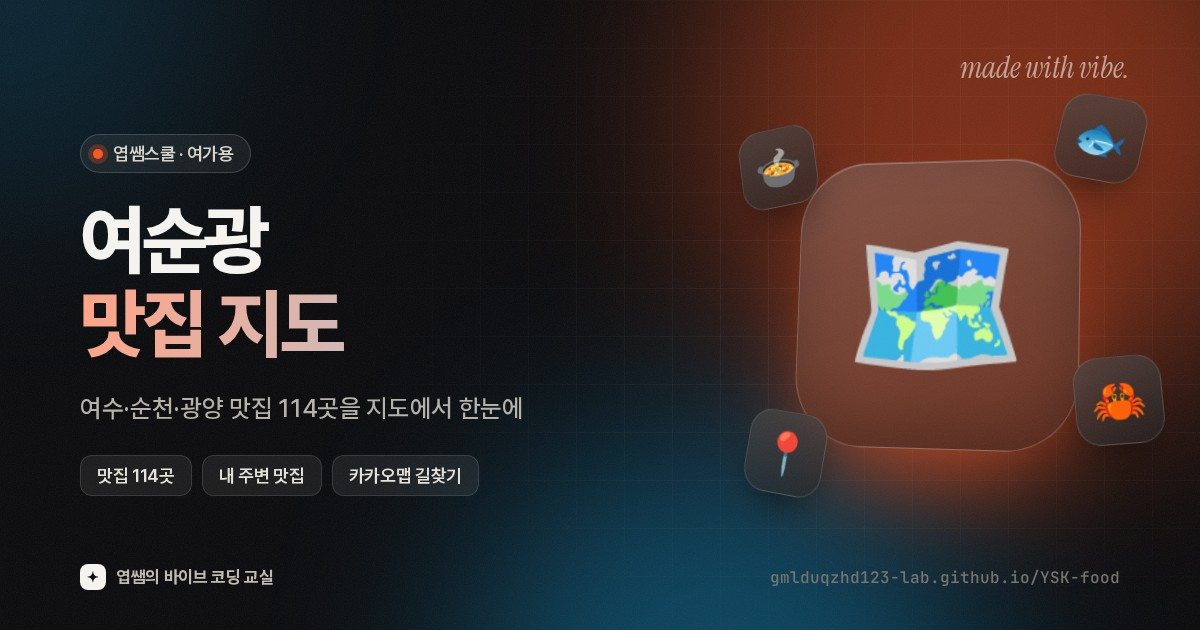
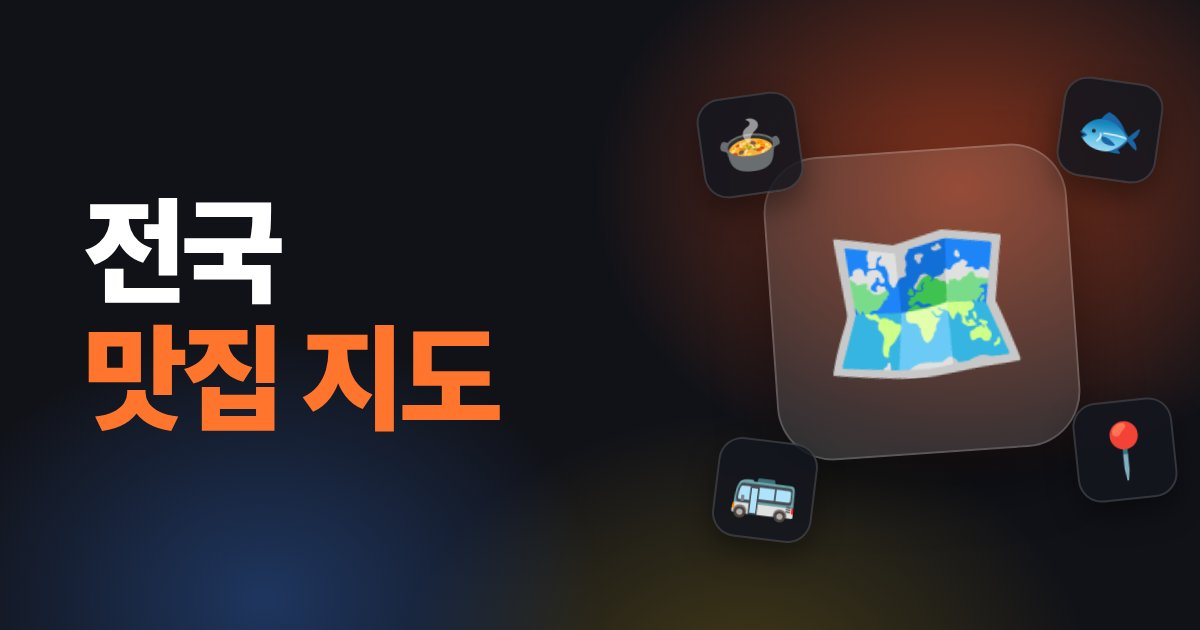
공유 미리보기 그림을 '전국 맛집 지도'로 교체 (#27)
옛 이름(여순광 맛집 지도)이 적힌 og-image.jpg를 새 이름 그림으로 바꾸고, 카톡 등이 새 그림을 받도록 주소에 ?v=20261019를 붙임.

Claude-Session: https://claude.ai/code/session_01NaW5r8WBzNy5B2e9iMgdZz

diff --git a/index.html b/index.html
@@ -7,14 +7,14 @@
     <meta property="og:site_name" content="엽쌤스쿨">
     <meta property="og:url" content="https://gmlduqzhd123-lab.github.io/YSK-food/">
     <meta property="og:locale" content="ko_KR">
-    <meta property="og:image" content="https://gmlduqzhd123-lab.github.io/YSK-food/og-image.jpg">
-    <meta property="og:image:secure_url" content="https://gmlduqzhd123-lab.github.io/YSK-food/og-image.jpg">
+    <meta property="og:image" content="https://gmlduqzhd123-lab.github.io/YSK-food/og-image.jpg?v=20261019">
+    <meta property="og:image:secure_url" content="https://gmlduqzhd123-lab.github.io/YSK-food/og-image.jpg?v=20261019">
     <meta property="og:image:type" content="image/jpeg">
     <meta property="og:image:width" content="1200">
     <meta property="og:image:height" content="630">
     <meta property="og:image:alt" content="전국 맛집 지도 — 학교·선수단 단체식사 지원">
     <meta name="twitter:card" content="summary_large_image">
-    <meta name="twitter:image" content="https://gmlduqzhd123-lab.github.io/YSK-food/og-image.jpg">
+    <meta name="twitter:image" content="https://gmlduqzhd123-lab.github.io/YSK-food/og-image.jpg?v=20261019">
     <meta name="description" content="여수·순천·광양 및 전국 맛집 탐색부터 학교 현장체험학습·선수단 단체식사 계획까지 한눈에 준비하세요.">
     <meta name="theme-color" content="#ff5722">
     <meta property="og:title" content="전국 맛집 지도 — 학교·선수단 단체식사 지원">
